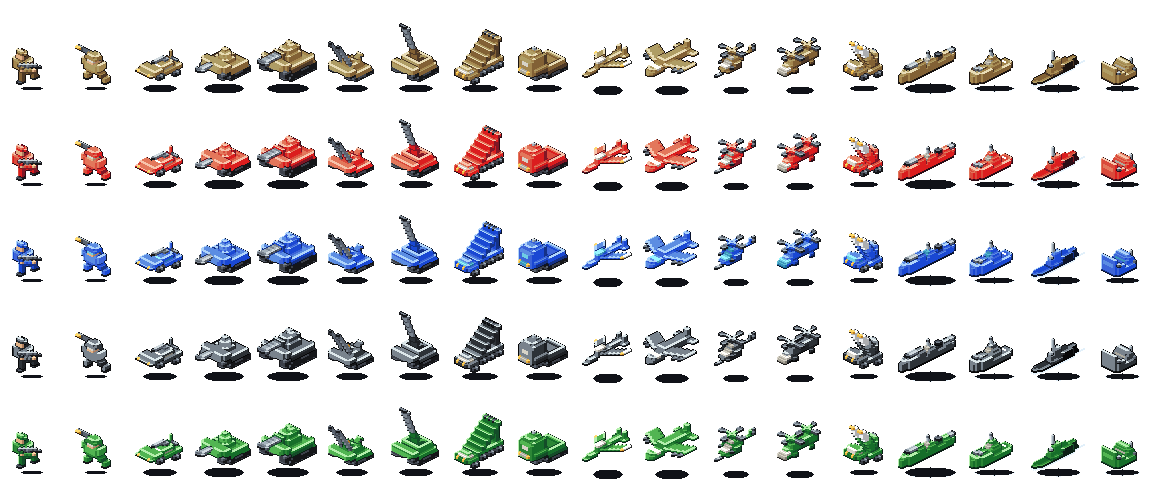
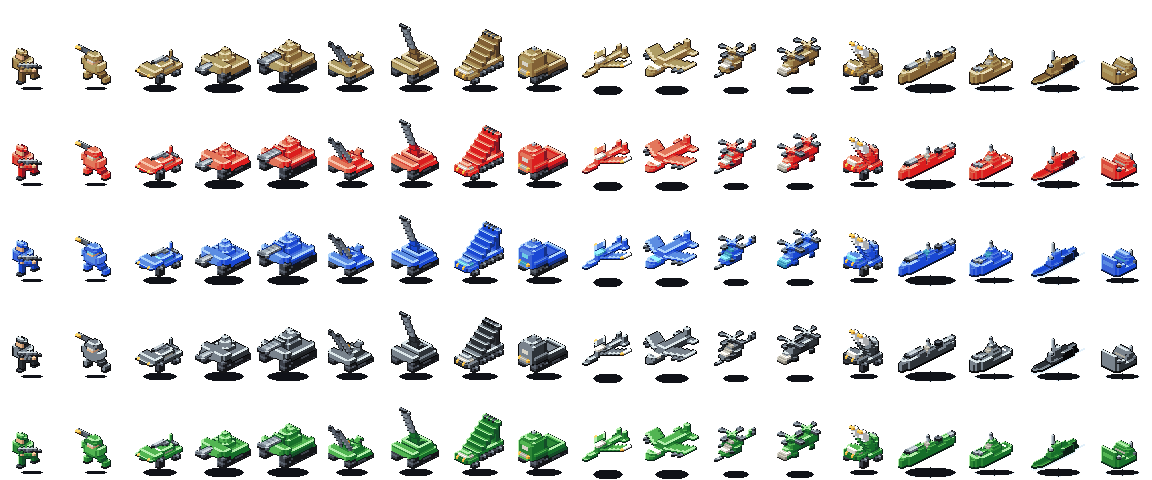
Keep the land vehicles' running gear on the ground in both move frames
Every land vehicle lifted its wheels or its track run with the chassis, so
at the board's 4:1 sample the whole family hovered one texel over its own
cast shadow for the clip: rung-1 row 20 went empty on both move frames for
md_tank, anti_air, artillery, apc and missiles and on one frame for tank,
recon and rockets, which read as a 6 Hz bounce.

`_gear_down` paints the two voxel courses a lift took the gear off back in
at z=0, so the hull pitches and jolts ABOUT its contact patch instead of
translating off it. The pitch frames ground the length they lifted; the
`_roll` frames ground the leading four voxels of each run, because a whole
run brought back down under a rolled hull costs 0.10-0.12 of mass drift
against the gate's 0.08 (the numbers are in the helper). The contact courses
go in plain and are the same in every pose, so they carry none of the gait.

Every move-clip property holds: silhouette 13-22 texels at rung 1 against
the gate's 6, shimmer 1.53-3.64, mass drift at most 0.068, shadows still
uncovered-only and mirror-symmetric, and each frame reads closer to its own
parked pose than before. The two move sheets are regenerated; the ambient
pair is byte-identical to main.

diff --git a/spritegen/units.py b/spritegen/units.py
@@ -362,6 +362,44 @@ def _roll(m: Model, dz: int) -> None:
     _shift(m, (min(xs), max(xs), min(ys), max(ys), min(zs), max(zs)), dz=dz)
 
 
+def _gear_down(
+    m: Model, x0: int, x1: int, y0: int, y1: int, mat: str = "track"
+) -> None:
+    """Stand the running gear over `(x0..x1, y0..y1)` back on the ground.
+
+    A move frame that raises a chassis — the family's nose pitch, or `_roll`'s
+    whole-hull jolt — raises the wheels or the track run under it too, and at
+    the board's 4:1 sample that opens ONE TEXEL OF BARE GROUND between the
+    hull's lowest row and the cast shadow (rung-1 row 20, the shadow on 21-22):
+    the vehicle hovers over its own shadow for the whole clip. Running gear
+    does not leave the ground when a hull pitches; the suspension extends. So
+    wherever a pose lifts gear, this paints the two voxel courses it came off
+    back in — one board texel, `dz = +2`'s own unit — and the machine pitches
+    ABOUT its contact patch instead of translating off it.
+
+    The courses go in plain: no link stripe, no hub. They are the lowest texel
+    of the sprite and they are identical in every pose, so the contact patch
+    carries none of the gait and the clip's measured deltas barely move. z=0
+    is the floor and nothing is ever painted under it, so the sprite's ground
+    row is pose A's in all four poses.
+
+    How MUCH of a run comes back down is a mass question, not a taste one. A
+    pitch grounds the length it lifted, which costs almost nothing because the
+    nose boxes are short. `_roll` lifts everything, and a WHOLE run brought
+    back down under a rolled hull is a band of new pixels that breaks
+    `MoveFrames.MAX_MASS_DRIFT`: measured at 0.100 (md_tank), 0.118
+    (anti_air), 0.103 (artillery), 0.118 (apc) and 0.081 (rockets, all eight
+    wheels) against the gate's 0.08. So the roll frames ground the LEADING
+    four voxels of each run — the end the sprite's lowest texel is drawn from,
+    since screen row is `x + y - 2z` and the contact texel is the front-outer
+    corner — which is 0.050 to 0.068 and answers the contact rule with the
+    same pixels. Lengthening from there is nearly free until it is not:
+    md_tank runs 0.050 / 0.060 / 0.068 / 0.076 at four, six, eight and ten
+    voxels, and anti_air is already at 0.081 at six.
+    """
+    m.box(x0, x1, y0, y1, 0, 1, mat)
+
+
 # ---------------------------------------------------------------------------
 # land
 # ---------------------------------------------------------------------------
@@ -762,9 +800,11 @@ def recon(pose: Pose = Pose.A) -> Model:
 
     The two frames are the car's two ends taking the ride, since the wheels
     cannot carry it at this scale (see `_tire`). MOVE_A pitches the NOSE one
-    board texel — front axle, hood, bumper and headlights at `dz = +2`, tail
-    axle and cabin holding — and MOVE_B sets the nose down and runs the CABIN
-    up instead: the roof, the glass, the rear plate and the pintle ride the
+    board texel — hood, bumper, headlights and front axle at `dz = +2`, tail
+    axle and cabin holding — with the front tyres painted back onto the ground
+    under it (`_gear_down`), so the car pitches ABOUT its contact patch on its
+    springs instead of lifting off it. MOVE_B sets the nose down and runs the
+    CABIN up instead: the roof, the glass, the rear plate and the pintle ride the
     texel on a one-course `hull_dk` band painted in under them, so the
     roofline moves against a level chassis and the body reads as working on
     its springs. Extending the nose pitch back to take the cabin with it was
@@ -777,13 +817,12 @@ def recon(pose: Pose = Pose.A) -> Model:
     costs it its identity. Rolled, MOVE_B read closer to the apc's frame A
     (0.703) than to recon's own (0.700). Moving one end at a time keeps the
     shape: 0.806 and 0.904 against its own frame A, next best 0.675 and 0.765
-    (cruiser). A against MOVE_A is 30 changed texels at rung 1, 14 of them
-    silhouette; MOVE_A against MOVE_B is 46 and 15, at 2.07 shimmer. Mass
-    drift 0.057 and 0.067 — the largest on the land roster, and in opposite
-    directions: MOVE_A gives ground back under the lifted nose and MOVE_B's
-    band pays out more than the raised cabin uncovers. That leaves 0.013 of
-    headroom under the gate's 0.08 and no more, so a later pass that deepens
-    either move has to take pixels back somewhere.
+    (cruiser). A against MOVE_A is 32 changed texels at rung 1, 16 of them
+    silhouette; MOVE_A against MOVE_B is 44 and 13, at 2.38 shimmer. Mass
+    drift 0.020 and 0.059: the planted tyres pay most of MOVE_A's back, and
+    MOVE_B's band — which pays out more than the raised cabin uncovers — is
+    now the whole of the unit's headroom question, with 0.021 left under the
+    gate's 0.08.
     """
     m = Model()
     for x in (0, 8):
@@ -835,6 +874,10 @@ def recon(pose: Pose = Pose.A) -> Model:
         # rooted in the cabin. Lifted, it left the barrel behind and floated
         # two voxels off its own tip.
         _shift(m, (0, 9, 10, 15, 0, 6), dz=2)
+        # ...and the front wheels stay down under it: the car pitches on its
+        # springs about the contact patch rather than lifting off it
+        for x in (0, 8):
+            _gear_down(m, x, x + 1, 10, 12, "tire")
     if pose is Pose.MOVE_B:
         # the cabin runs up its springs over a level chassis, pintle and all
         # — the box reaches y=10 to take the muzzle with the barrel — and the
@@ -862,8 +905,11 @@ def tank(pose: Pose = Pose.A) -> Model:
     The move clip leaves the gun where pose A carries it — a tank under way
     does not lay its barrel — and ROCKS the hull over its running gear
     instead, one end at a time. MOVE_A takes the family's nose-up: the front
-    hull course, the glacis and the leading track run at `dz = +2`. MOVE_B
-    sets that down and lifts the REAR — the back hull course, the deck vents,
+    hull course, the glacis and the leading track run at `dz = +2`, with that
+    run's two bottom courses painted straight back onto the ground
+    (`_gear_down`) — a track does not leave the ground when a hull pitches, and
+    at rung 1 the texel it stands on is the one that bridges hull to shadow.
+    MOVE_B sets that down and lifts the REAR — the back hull course, the vents,
     the exhausts and the trailing track run — so the link stripe walks under a
     hull that pitches back and forth instead of one holding still. The turret,
     the cupola, the mantlet and the gun lie outside both boxes and never move:
@@ -885,9 +931,11 @@ def tank(pose: Pose = Pose.A) -> Model:
     and so moved a line lying inside the sprite's own outline at rung 1 — 46
     changed texels for 11 of silhouette, 3.18 shimmer, a frame re-toning its
     interior more than it moved its edge. Cut to the running gear and the
-    glacis, the same one-texel move buys 52 changed for 19 of silhouette at
-    1.74 shimmer, and A against MOVE_A is 34 changed with 9 of silhouette.
-    Mass drift 0.040 and 0.055.
+    glacis, the same one-texel move buys 46 changed for 14 of silhouette at
+    2.29 shimmer, and A against MOVE_A is 32 changed with 8 of silhouette —
+    fewer than the pitch moved before it kept its track down, because the
+    contact courses are the sprite's lowest texels and they now hold still in
+    every pose. Mass drift 0.004 and 0.049.
     """
     m = Model()
     _track(m, 0, 2, 0, 13, 2, phase=_tread_phase(pose))
@@ -922,8 +970,11 @@ def tank(pose: Pose = Pose.A) -> Model:
         _shift(m, (4, 7, 10, 20, 6, 7), dz=4)
         m.box(4, 7, 10, 10, 6, 9, "hull_dk")
     if pose is Pose.MOVE_A:
-        # nose up: hull front, glacis and the leading track run, gun excluded
+        # nose up: hull front, glacis and the leading track run, gun excluded,
+        # with the run's contact courses painted back onto the ground
         _shift(m, (0, 11, 10, 14, 0, 5), dz=2)
+        for x0 in (0, 9):
+            _gear_down(m, x0, x0 + 2, 10, 13)
     if pose is Pose.MOVE_B:
         # and the other end, clear of the turret ring at y=4
         _shift(m, (0, 11, 0, 3, 0, 5), dz=2)
@@ -948,14 +999,25 @@ def md_tank(pose: Pose = Pose.A) -> Model:
     rolls the WHOLE hull the same texel (`_roll`), which is the off-beat jolt
     of a machine this heavy riding ground.
 
+    Neither frame takes its track off the ground with it. Both stand the run's
+    two bottom courses back at z=0 (`_gear_down`) — the lifted end's on MOVE_A,
+    the leading four voxels of both runs on MOVE_B, which is where the sprite's
+    lowest texel is drawn — so the hull rides its suspension and the texel that
+    bridges hull to shadow at rung 1 is the parked one in every frame. The roll
+    grounds the leading end only because a whole run brought back down under a
+    rolled hull is a band of new pixels the mass gate cannot pay for: at full
+    length the drift was 0.100 against the 0.08 bar.
+
     The roll is UP and never down even though this is the tallest thing on the
     land roster: `voxel.place_in_cell` still takes it, and a settle would read
     as the suspension giving way rather than the chassis riding. Nothing here
     has to borrow the MBT's rock, because it is the heavy that the MBT's roll
     collided with and not the other way about: rolled, MOVE_B still reads
     0.781 against its own frame A and 0.616 against the next unit's. A against
-    MOVE_A is 30 changed texels at rung 1 with 7 of silhouette; MOVE_A against
-    MOVE_B is 79 and 23, at 2.43 shimmer, mass drift 0.039 and 0.002.
+    MOVE_A is 26 changed texels at rung 1 with 4 of silhouette — the thinnest
+    parked-to-moving reading on the land roster, since a nose pitch this short
+    over a run that stays down moves the glacis line and nothing else; MOVE_A
+    against MOVE_B is 77 and 22, at 2.50 shimmer, mass drift 0.006 and 0.050.
     """
     m = Model()
     _track(m, 0, 2, 0, 15, 3, phase=_tread_phase(pose))
@@ -993,8 +1055,14 @@ def md_tank(pose: Pose = Pose.A) -> Model:
     if pose is Pose.MOVE_A:
         # nose up: stepped glacis, front hull and the leading track run
         _shift(m, (0, 12, 13, 16, 0, 6), dz=2)
+        # ...and the lifted length of the run is stood back on the ground
+        for x0 in (0, 10):
+            _gear_down(m, x0, x0 + 2, 13, 15)
     if pose is Pose.MOVE_B:
         _roll(m, 2)
+        # the leading end of both runs comes back down under the jolt
+        for x0 in (0, 10):
+            _gear_down(m, x0, x0 + 2, 12, 15)
     return m
 
 
@@ -1013,14 +1081,22 @@ def anti_air(pose: Pose = Pose.A) -> Model:
     front hull, its lip and the leading track run take `dz = +2` at z at most
     3, which is under the battery box, so the raked barrels stay exactly where
     the travelling lock put them and only the hull they ride on moves. MOVE_B
-    levels that and rolls the whole model the same texel (`_roll`).
+    levels that and rolls the whole model the same texel (`_roll`). Both frames
+    stand the track back down where the lift took it (`_gear_down`): the front
+    of the run on MOVE_A, the leading four voxels of both runs under the roll,
+    which is the end the sprite's lowest texel is drawn from and so the texel
+    that bridges hull to shadow at rung 1.
 
     Lifting the nose UNDER the roll — both at once — was tried and is what
     the alternation replaces: at MOVE_B the flak track's own frame A read
     0.615 against the apc's 0.635 and it stopped being itself. One at a time
     it reads 0.890 and 0.702 own, against 0.650 and 0.683 next. A against
-    MOVE_A is 31 changed texels at rung 1 with 9 of silhouette; MOVE_A against
-    MOVE_B is 53 and 19, at 1.79 shimmer, mass drift 0.056 and 0.000.
+    MOVE_A is 31 changed texels at rung 1 with 5 of silhouette; MOVE_A against
+    MOVE_B is 53 and 19, at 1.79 shimmer, mass drift 0.001 and 0.068. The roll
+    frame is the tightest mass reading of the eight land vehicles: this is the
+    shortest hull that grounds four voxels of both runs, so the contact patch
+    is the biggest share of a sprite here and the drift it buys leaves 0.012
+    under the gate.
     """
     m = Model()
     _track(m, 0, 2, 0, 11, phase=_tread_phase(pose))
@@ -1063,8 +1139,14 @@ def anti_air(pose: Pose = Pose.A) -> Model:
     if pose is Pose.MOVE_A:
         # nose up, under the battery: the box stops at the hull's top course
         _shift(m, (0, 10, 9, 12, 0, 3), dz=2)
+        # ...over a track run that stays on the ground under it
+        for x0 in (0, 8):
+            _gear_down(m, x0, x0 + 2, 9, 11)
     if pose is Pose.MOVE_B:
         _roll(m, 2)
+        # the leading end of both runs comes back down under the jolt
+        for x0 in (0, 8):
+            _gear_down(m, x0, x0 + 2, 8, 11)
     return m
 
 
@@ -1098,11 +1180,14 @@ def artillery(pose: Pose = Pose.A) -> Model:
     the pit it stands in are carried and not bent — and MOVE_B levels that and
     rolls the whole model the same texel (`_roll`), which swings the
     near-vertical spike a texel across open sky where nothing else on the
-    sheet has anything.
+    sheet has anything. The track stays on the ground through both
+    (`_gear_down`, the lifted front on MOVE_A and the leading four voxels of
+    both runs under the roll), so the SPG rides its suspension rather than
+    hovering a texel over its own shadow.
 
-    A against MOVE_A is 36 changed texels at rung 1 with 9 of silhouette;
-    MOVE_A against MOVE_B is 60 and 19, at 2.16 shimmer, mass drift 0.041 and
-    0.000. Identity holds at 0.911 and 0.752 against its own frame A, next
+    A against MOVE_A is 36 changed texels at rung 1 with 7 of silhouette;
+    MOVE_A against MOVE_B is 59 and 19, at 2.11 shimmer, mass drift 0.005 and
+    0.061. Identity holds at 0.911 and 0.752 against its own frame A, next
     best 0.703 and 0.687.
     """
     m = Model()
@@ -1147,8 +1232,14 @@ def artillery(pose: Pose = Pose.A) -> Model:
     if pose is Pose.MOVE_A:
         # nose up, clear of the casemate wall and the pit inside it
         _shift(m, (0, 10, 10, 13, 0, 4), dz=2)
+        # ...over a track run that stays on the ground under it
+        for x0 in (0, 8):
+            _gear_down(m, x0, x0 + 2, 10, 12)
     if pose is Pose.MOVE_B:
         _roll(m, 2)
+        # the leading end of both runs comes back down under the jolt
+        for x0 in (0, 8):
+            _gear_down(m, x0, x0 + 2, 9, 12)
     return m
 
 
@@ -1170,7 +1261,12 @@ def rockets(pose: Pose = Pose.A) -> Model:
     which stands the loaded end of a long truck up over its rear bogies.
     MOVE_B levels that and rolls the whole truck the same texel (`_roll`), and
     the rack, being the biggest plane on the roster, carries the jolt across
-    most of the sprite.
+    most of the sprite — with the FRONT pair of tyres painted back onto the
+    ground under it (`_gear_down`), since that axle is where the sprite's
+    lowest row is drawn and MOVE_A is already standing on it. The other three
+    axles ride the roll: eight grounded wheels is a band of new pixels worth
+    0.081 of mass drift against the gate's 0.08, and one axle answers the
+    contact rule for both frames.
 
     It is the tail here and the nose everywhere else in the family, for a
     measured reason that belongs to the shadow rather than to the ride. This
@@ -1184,9 +1280,9 @@ def rockets(pose: Pose = Pose.A) -> Model:
     the tail takes the same texel off the screen-RIGHT end and the margin
     widens to 0.77px.
 
-    A against MOVE_A is 26 changed texels at rung 1 with 7 of silhouette;
-    MOVE_A against MOVE_B is 67 and 19, at 2.53 shimmer, mass drift 0.044 and
-    0.000. Identity 0.942 and 0.803 own, next best 0.646 and 0.607.
+    A against MOVE_A is 28 changed texels at rung 1 with 9 of silhouette;
+    MOVE_A against MOVE_B is 65 and 14, at 3.64 shimmer, mass drift 0.048 and
+    0.030. Identity 0.942 and 0.803 own, next best 0.646 and 0.607.
     """
     m = Model()
     for y in (1, 5, 9, 13):
@@ -1225,10 +1321,18 @@ def rockets(pose: Pose = Pose.A) -> Model:
             _shift(m, (1, 8, y0, y0 + 1, 4 + 2 * k, 5 + 2 * k), dz=2)
         m.box(2, 7, 1, 2, 14, 15, "hull_dk")
     if pose is Pose.MOVE_A:
-        # tail up: the bed and the three rear axles, under the slab
+        # tail up: the bed and the three rear axles, under the slab. The front
+        # axle holds the ground here, and it is the front that carries the
+        # sprite's lowest row, so this frame already stands on its contact
+        # patch and the tightest shadow margin on the sheet is left alone.
         _shift(m, (0, 9, 0, 11, 0, 3), dz=2)
     if pose is Pose.MOVE_B:
         _roll(m, 2)
+        # the roll takes all eight wheels up with the bed; the FRONT pair
+        # comes back down, which is the axle the sprite's lowest row is drawn
+        # from and the one the truck is already standing on in MOVE_A
+        for x in (0, 8):
+            _gear_down(m, x, x + 1, 13, 15, "tire")
     return m
 
 
@@ -1280,15 +1384,19 @@ def apc(pose: Pose = Pose.A) -> Model:
     the way pose B's nod makes it. MOVE_B levels that and rolls the whole
     hull, dropped ramp and all, the same texel (`_roll`). The ramp riding the
     roll is deliberate: it is bolted to the tail, so leaving it on the ground
-    while the hull lifted would tear the outline.
+    while the hull lifted would tear the outline. The TRACK is not bolted to
+    anything and never leaves the ground: both frames paint its bottom two
+    courses back at z=0 (`_gear_down`) — the whole lifted length on MOVE_A, the
+    leading four voxels under the roll — which is the texel that bridges hull
+    to shadow at rung 1.
 
     Pitch and roll TOGETHER on MOVE_B is what the alternation replaces: it put
     the cab a second texel up and the frame read 0.667 against the bomber's
     against 0.658 for its own, the one silhouette on the sheet a raised slab
     can be mistaken for. One at a time reads 0.871 and 0.759 own, next best
     0.718 and 0.695. A against MOVE_A is the loudest reading on the land
-    roster at 48 changed texels at rung 1 with 13 of silhouette; MOVE_A
-    against MOVE_B is 34 and 13, at 1.62 shimmer, mass drift 0.012 and 0.000.
+    roster at 47 changed texels at rung 1 with 9 of silhouette; MOVE_A
+    against MOVE_B is 34 and 13, at 1.62 shimmer, mass drift 0.047 and 0.053.
     """
     m = Model()
     _track(m, 0, 2, 0, 15, phase=_tread_phase(pose))
@@ -1354,8 +1462,14 @@ def apc(pose: Pose = Pose.A) -> Model:
         # nose up: the whole raised cab module from its rear bulkhead forward,
         # the track run under it included; the open bay and the ramp hold
         _shift(m, (0, 8, 10, 17, 0, 12), dz=2)
+        # ...over the length of run the lift took up with it
+        for x0 in (0, 6):
+            _gear_down(m, x0, x0 + 2, 10, 15)
     if pose is Pose.MOVE_B:
         _roll(m, 2)
+        # the leading end of both runs comes back down under the jolt
+        for x0 in (0, 6):
+            _gear_down(m, x0, x0 + 2, 12, 15)
     return m
 
 
@@ -1377,11 +1491,15 @@ def missiles(pose: Pose = Pose.A) -> Model:
     livery cab and the bumper one texel (z at most 5, which is the cab's own
     roof, so the erector pedestal and the seated rounds behind it never enter
     the box), and MOVE_B levels that and rolls the whole erector the same
-    texel (`_roll`), which swings both spikes across open sky.
+    texel (`_roll`), which swings both spikes across open sky. The FRONT tyres
+    are painted back onto the ground in both frames (`_gear_down`): they are
+    the axle the sprite's lowest row is drawn from, so the battery pitches and
+    jolts about its contact patch instead of hovering over its own shadow. The
+    tail axle rides the roll, which is what keeps the mass drift payable.
 
-    A against MOVE_A is 28 changed texels at rung 1 with 9 of silhouette;
-    MOVE_A against MOVE_B is 43 and 17, at 1.53 shimmer, mass drift 0.040 and
-    0.000. Identity 0.883 and 0.701 own, next best 0.604 and 0.587 — the
+    A against MOVE_A is 30 changed texels at rung 1 with 10 of silhouette;
+    MOVE_A against MOVE_B is 43 and 17, at 1.53 shimmer, mass drift 0.009 and
+    0.049. Identity 0.883 and 0.701 own, next best 0.604 and 0.587 — the
     thinnest own-to-next margin on the land roster, and it is the seated
     rounds that hold it, so a later pass may not move them under way.
     """
@@ -1429,10 +1547,16 @@ def missiles(pose: Pose = Pose.A) -> Model:
             _shift(m, (x0, x0 + 1, 3, 9, 5, 16), dz=2)
             m.box(x0, x0 + 1, 3, 4, 5, 6, "hull_dk")
     if pose is Pose.MOVE_A:
-        # nose up: front axle, cab and bumper, below the seated rounds
+        # nose up: front axle, cab and bumper, below the seated rounds; the
+        # front tyres are painted back onto the ground under it
         _shift(m, (0, 9, 8, 12, 0, 5), dz=2)
+        for x in (0, 8):
+            _gear_down(m, x, x + 1, 8, 10, "tire")
     if pose is Pose.MOVE_B:
         _roll(m, 2)
+        # the front axle comes back down under the jolt, as in MOVE_A
+        for x in (0, 8):
+            _gear_down(m, x, x + 1, 8, 10, "tire")
     return m
 
 
